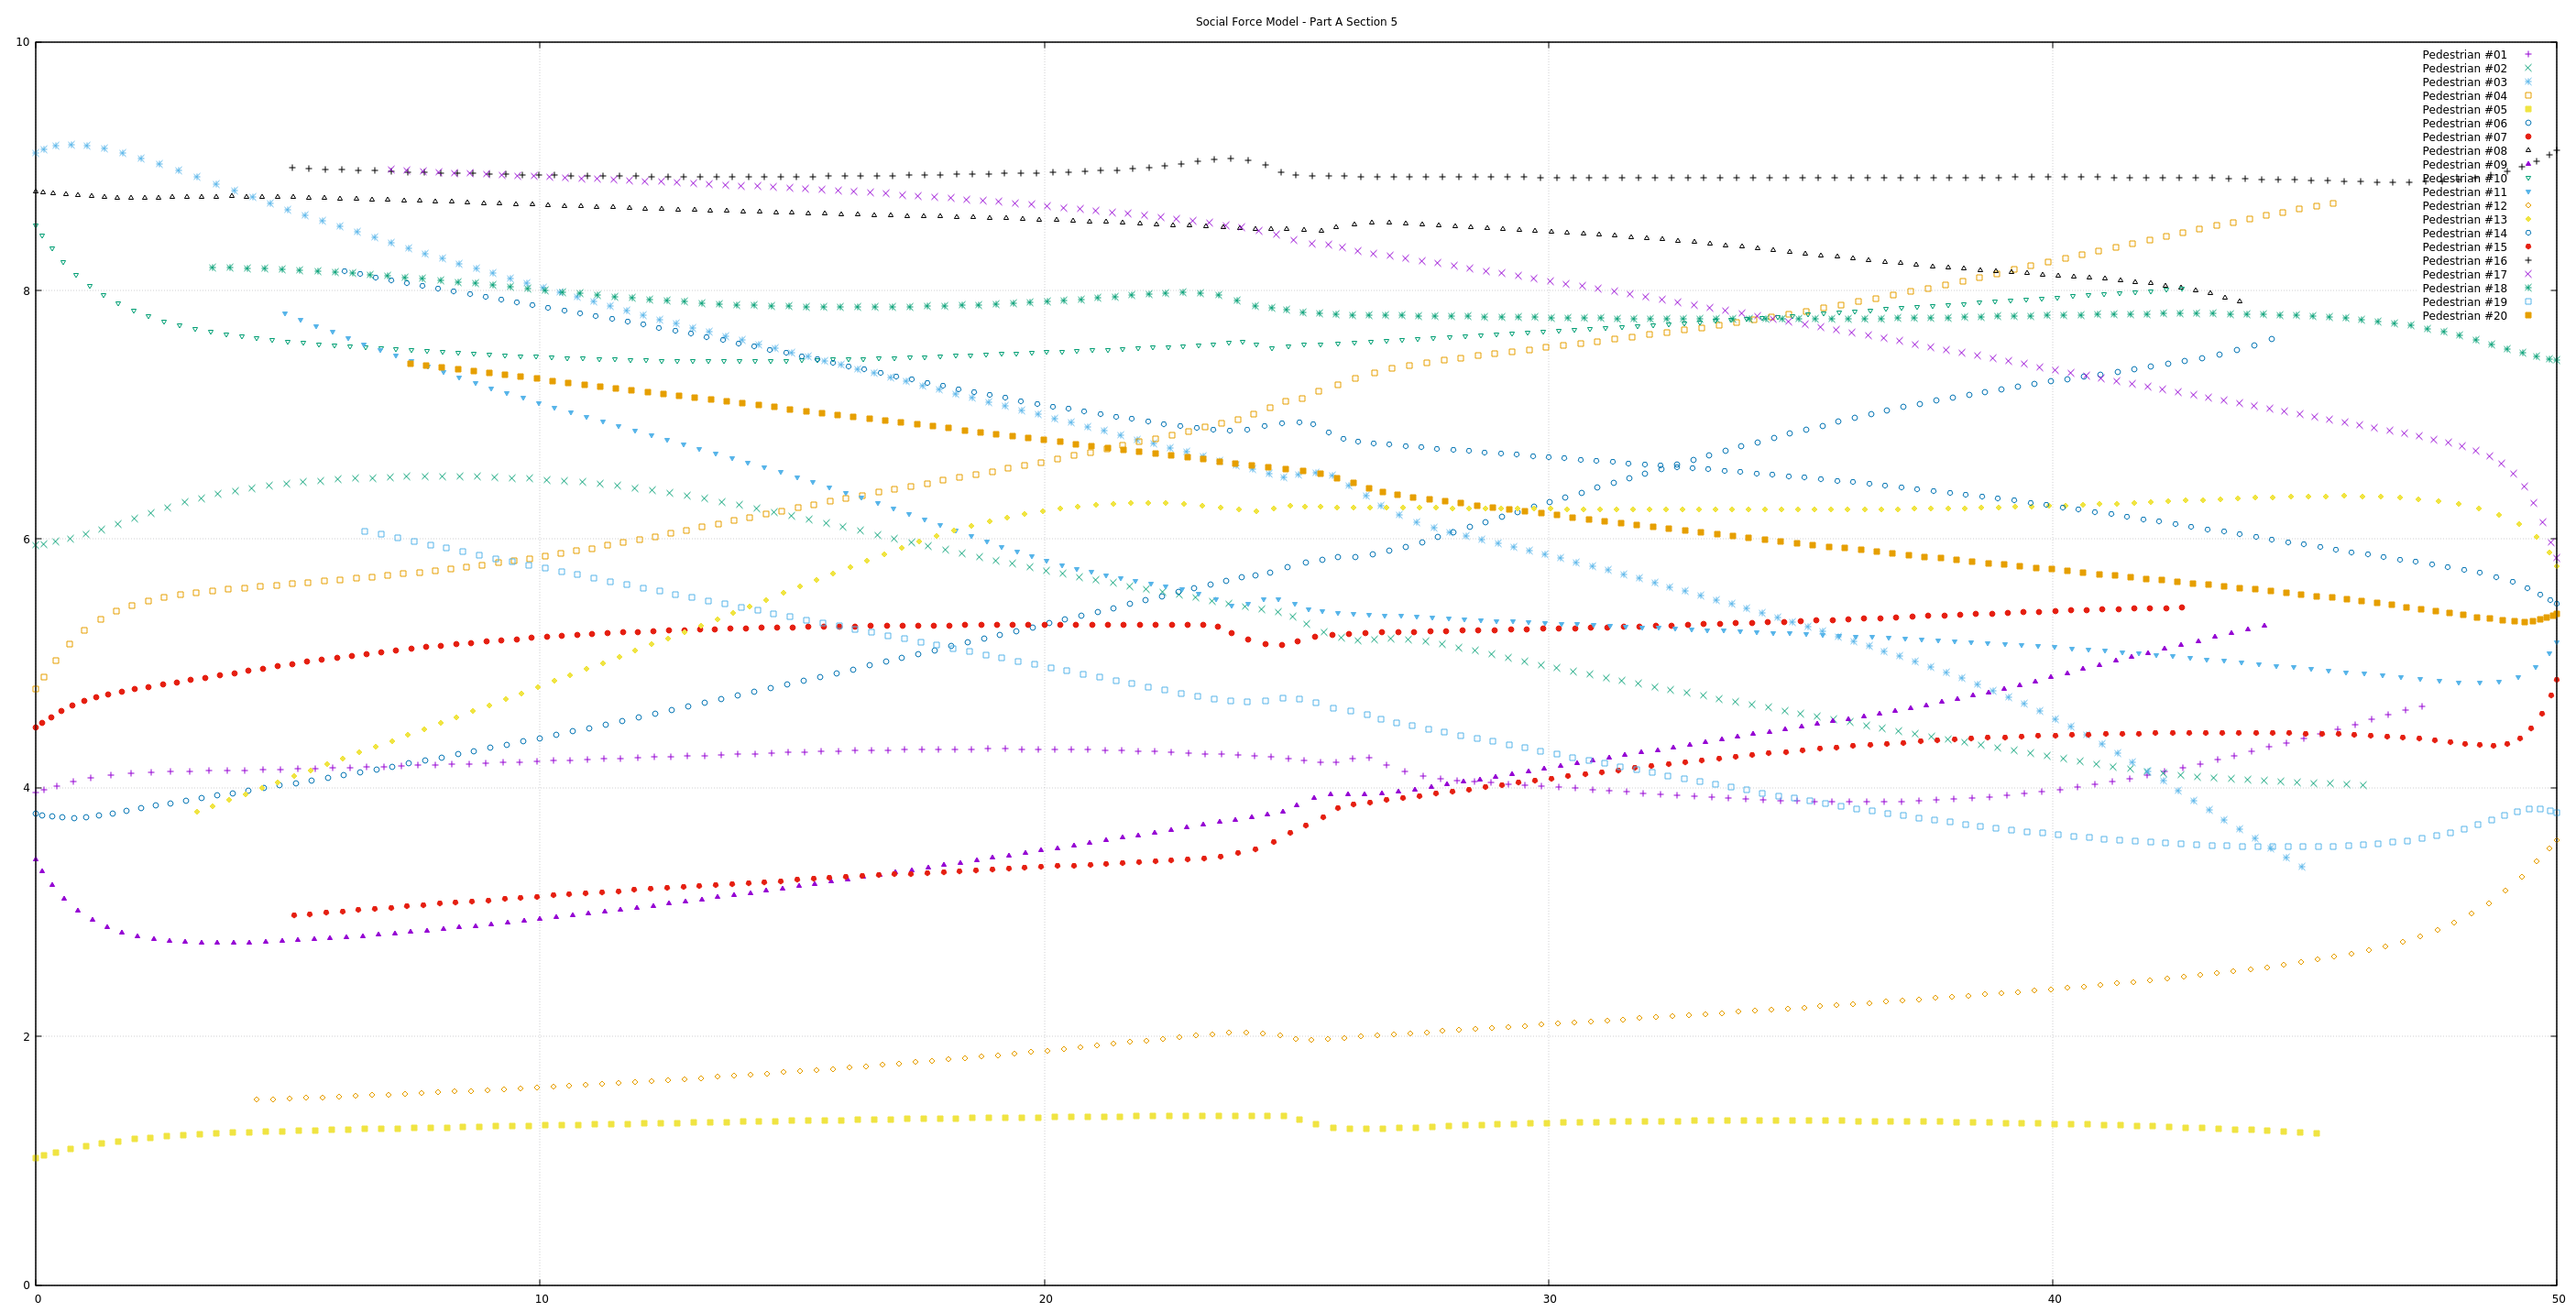
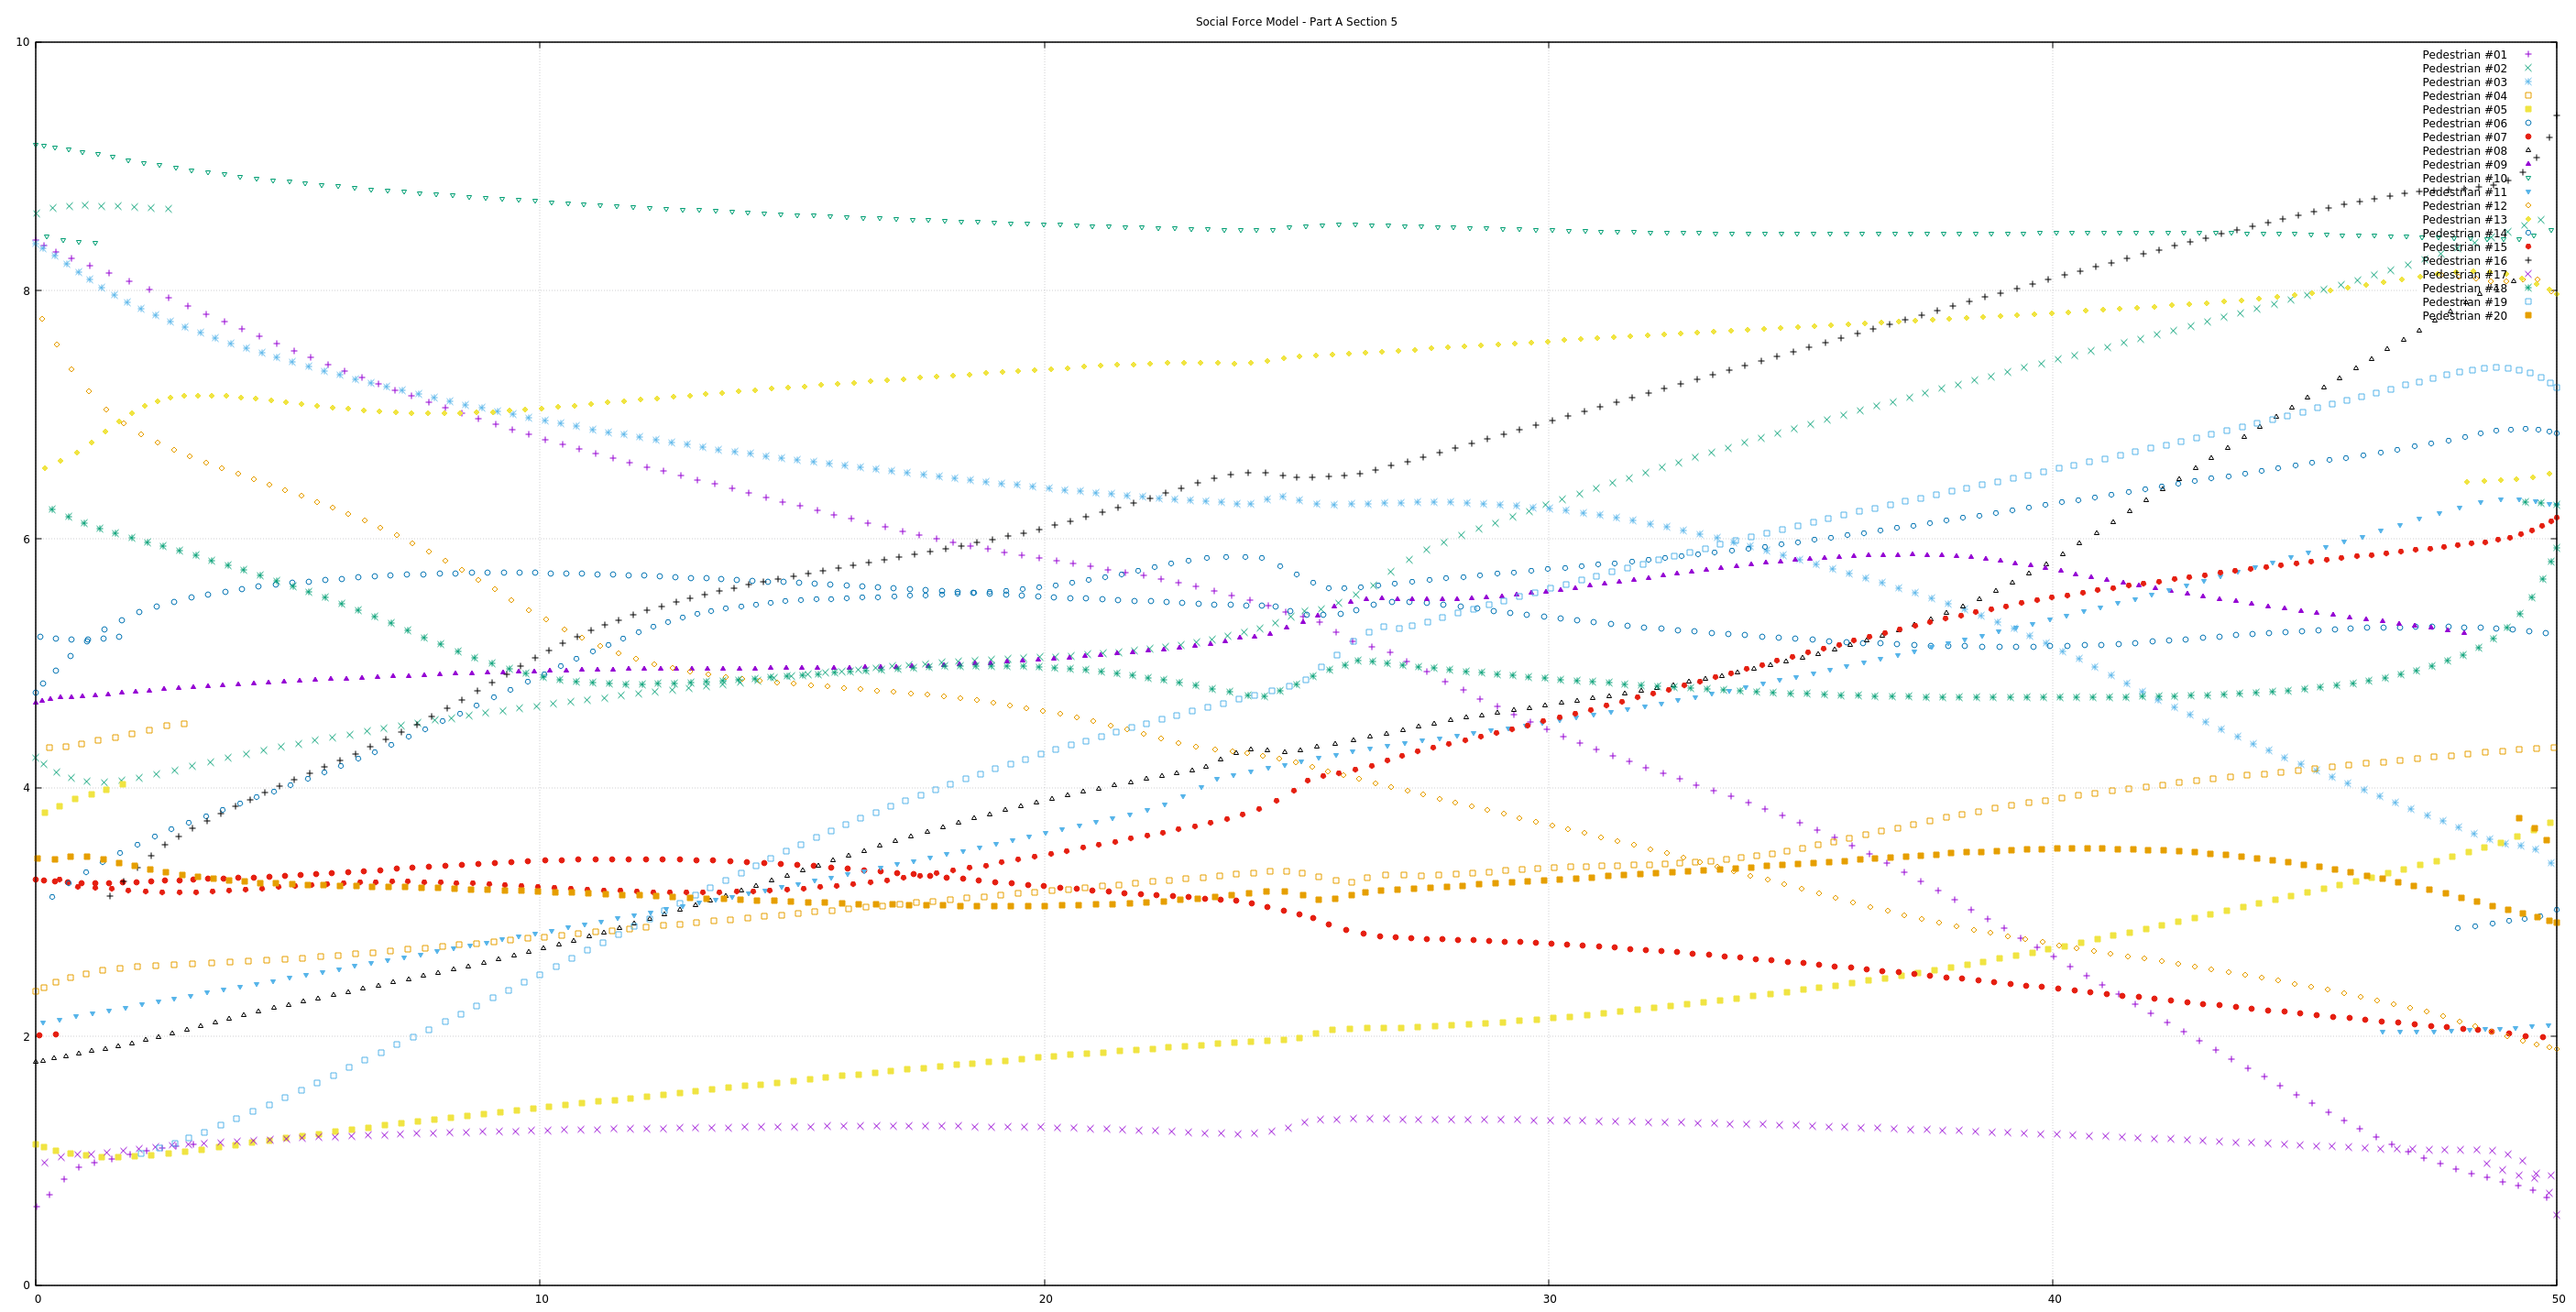
Bug fix for negative direction wrapping.

diff --git a/Code/Lib/sfmTypes.cpp b/Code/Lib/sfmTypes.cpp
@@ -82,9 +82,12 @@ namespace sfm { // Start namespace.
   }
 
   double Pos2d::Wrap(double z, double max_z) { // Recursive method!
-    if (z / max_z > 1.0) {
+    if (z > max_z) {
       return Wrap(z - max_z, max_z);
     }
+    if (z < 0.0) {
+      return Wrap(z + max_z, max_z);
+    } 
     return z; 
   }
 

diff --git a/Code/CommandLineApps/sfmPartASection4App.cpp b/Code/CommandLineApps/sfmPartASection4App.cpp
@@ -43,7 +43,7 @@ int main(int argc, char** argv)
   std::cout << std::endl;
 
   // Time loop.
-  double finish_time_s {35.0};
+  double finish_time_s {50.0};
   double dt {0.25};
   for (auto t = dt; t < finish_time_s + dt; t += dt) {
     std::cout << t;

diff --git a/Code/CommandLineApps/sfmPartASection5App.cpp b/Code/CommandLineApps/sfmPartASection5App.cpp
@@ -70,7 +70,7 @@ int main(int argc, char** argv)
   std::cout << std::endl;
 
   // Time loop.
-  double finish_time_s {35.0};
+  double finish_time_s {40.0};
   double dt {0.25};
   for (auto t = dt; t < finish_time_s + dt; t += dt) {
     std::cout << t;
